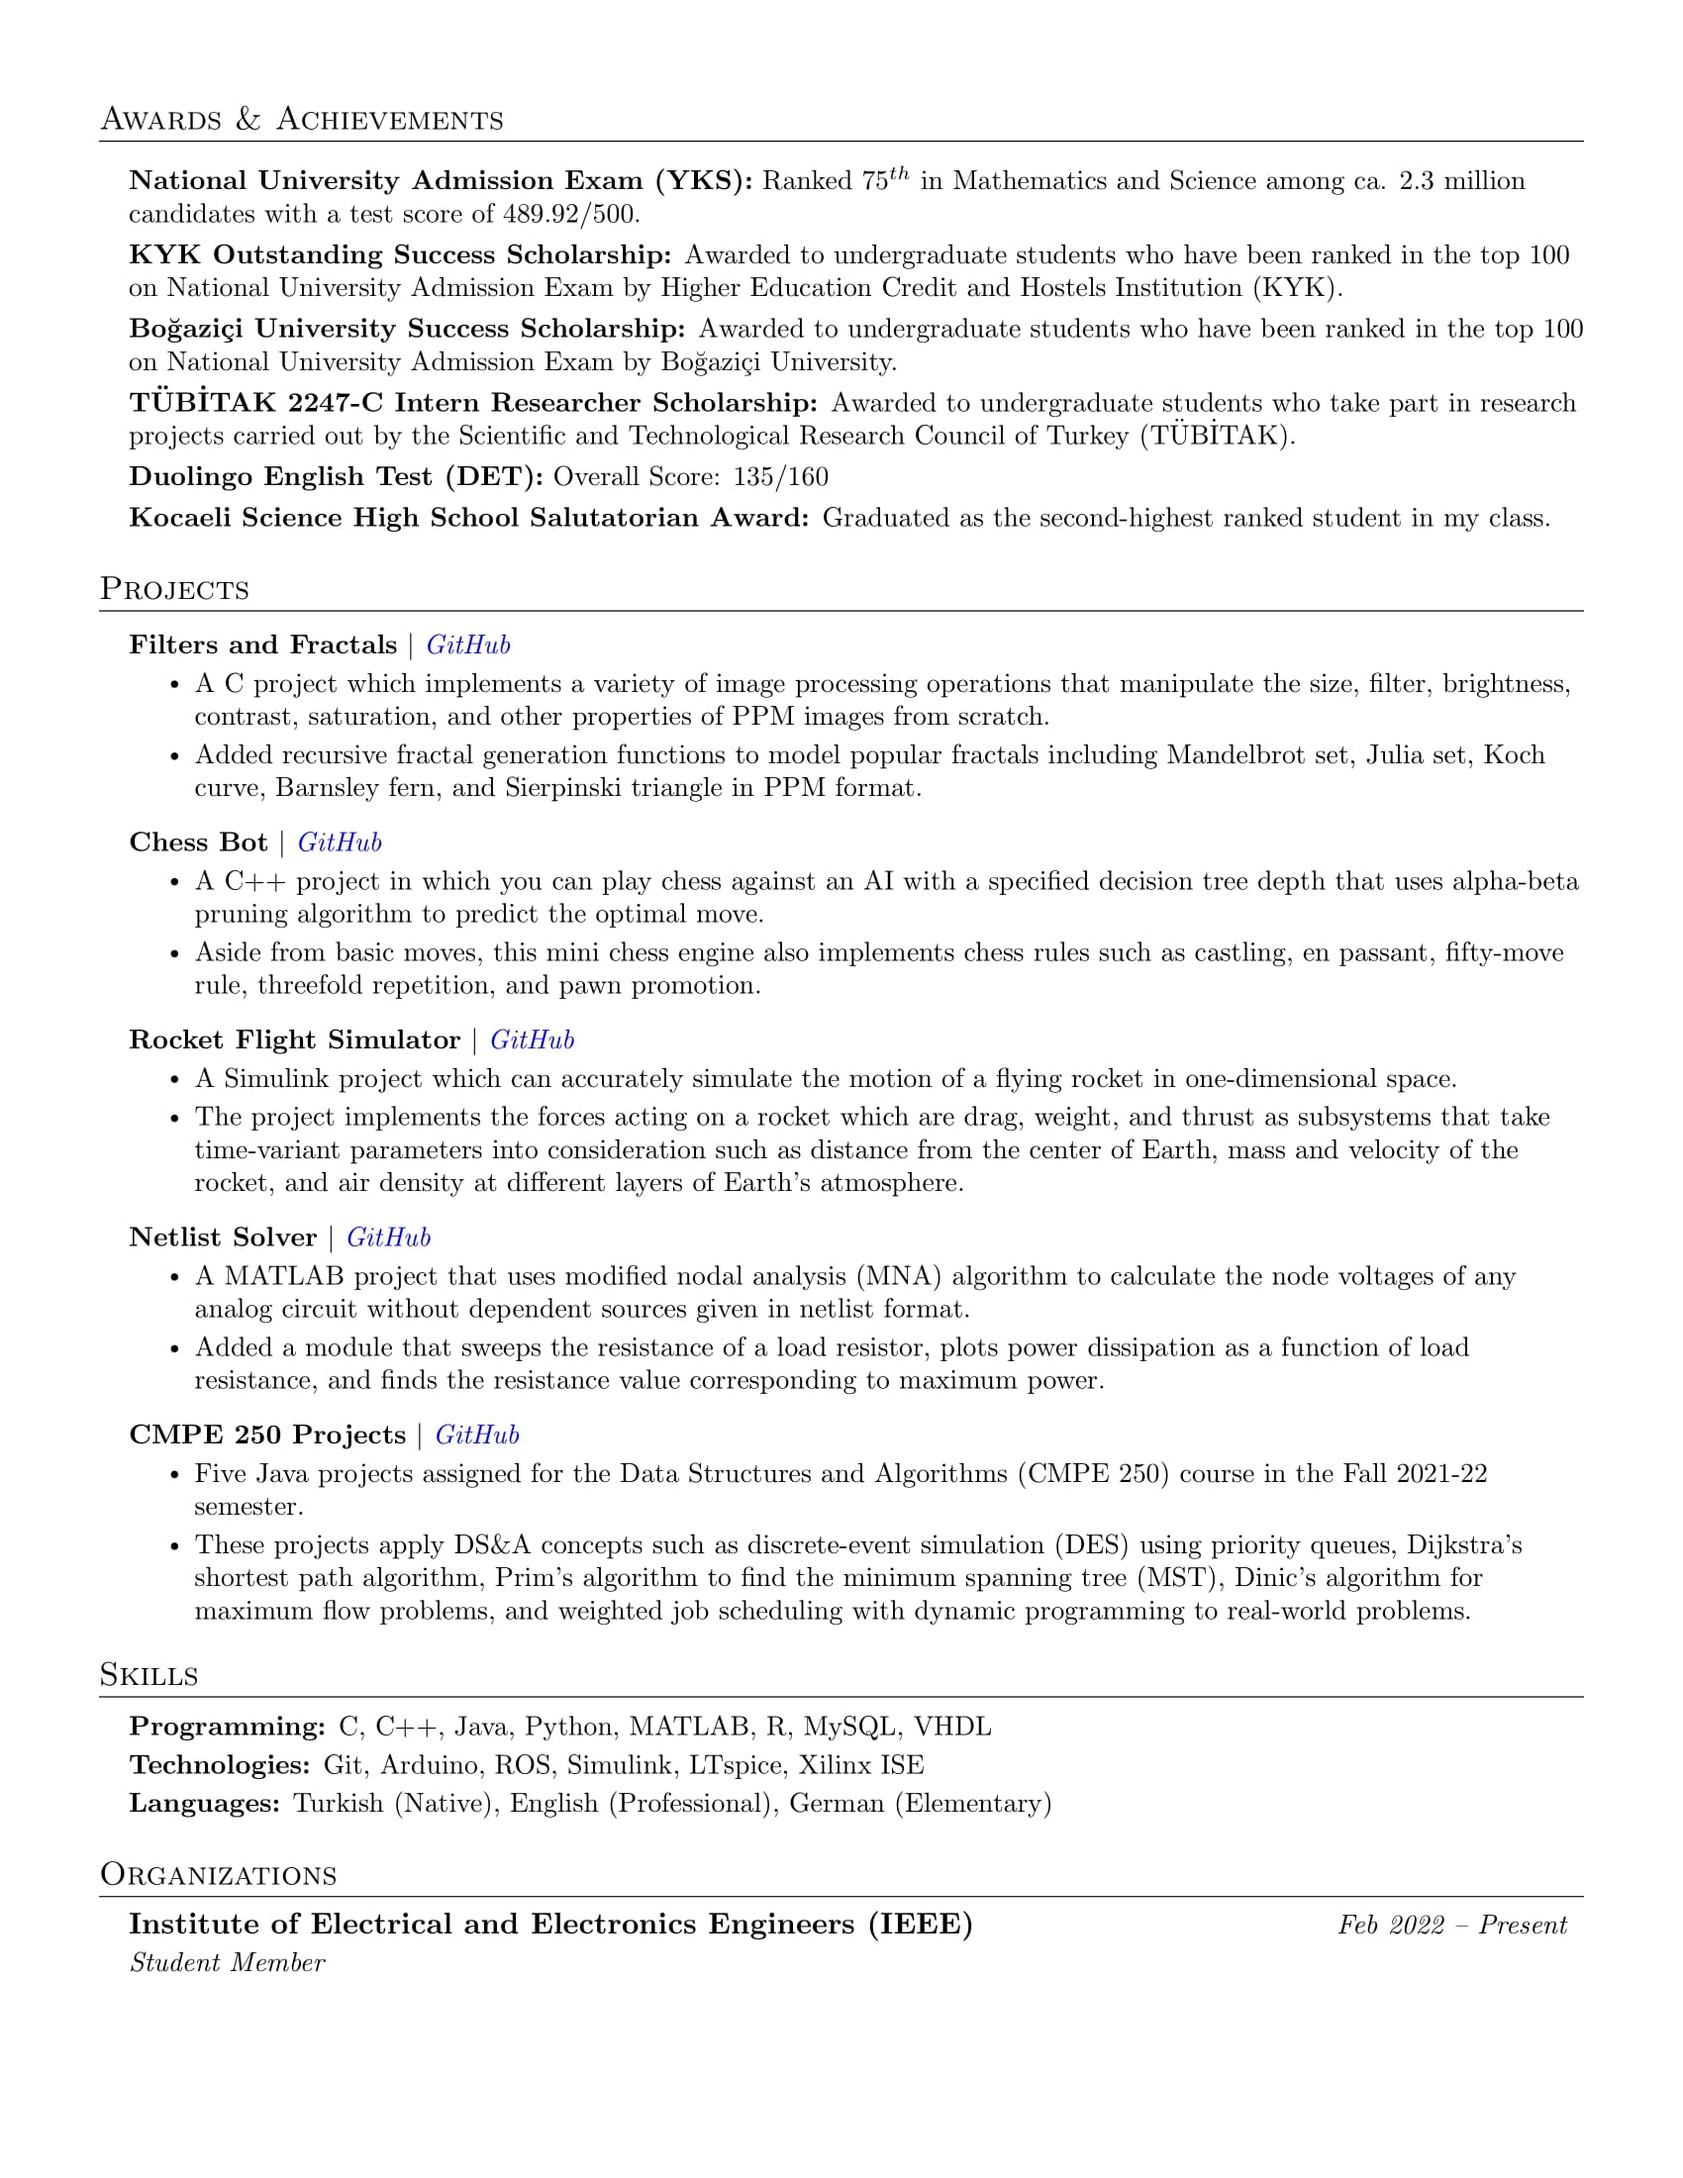
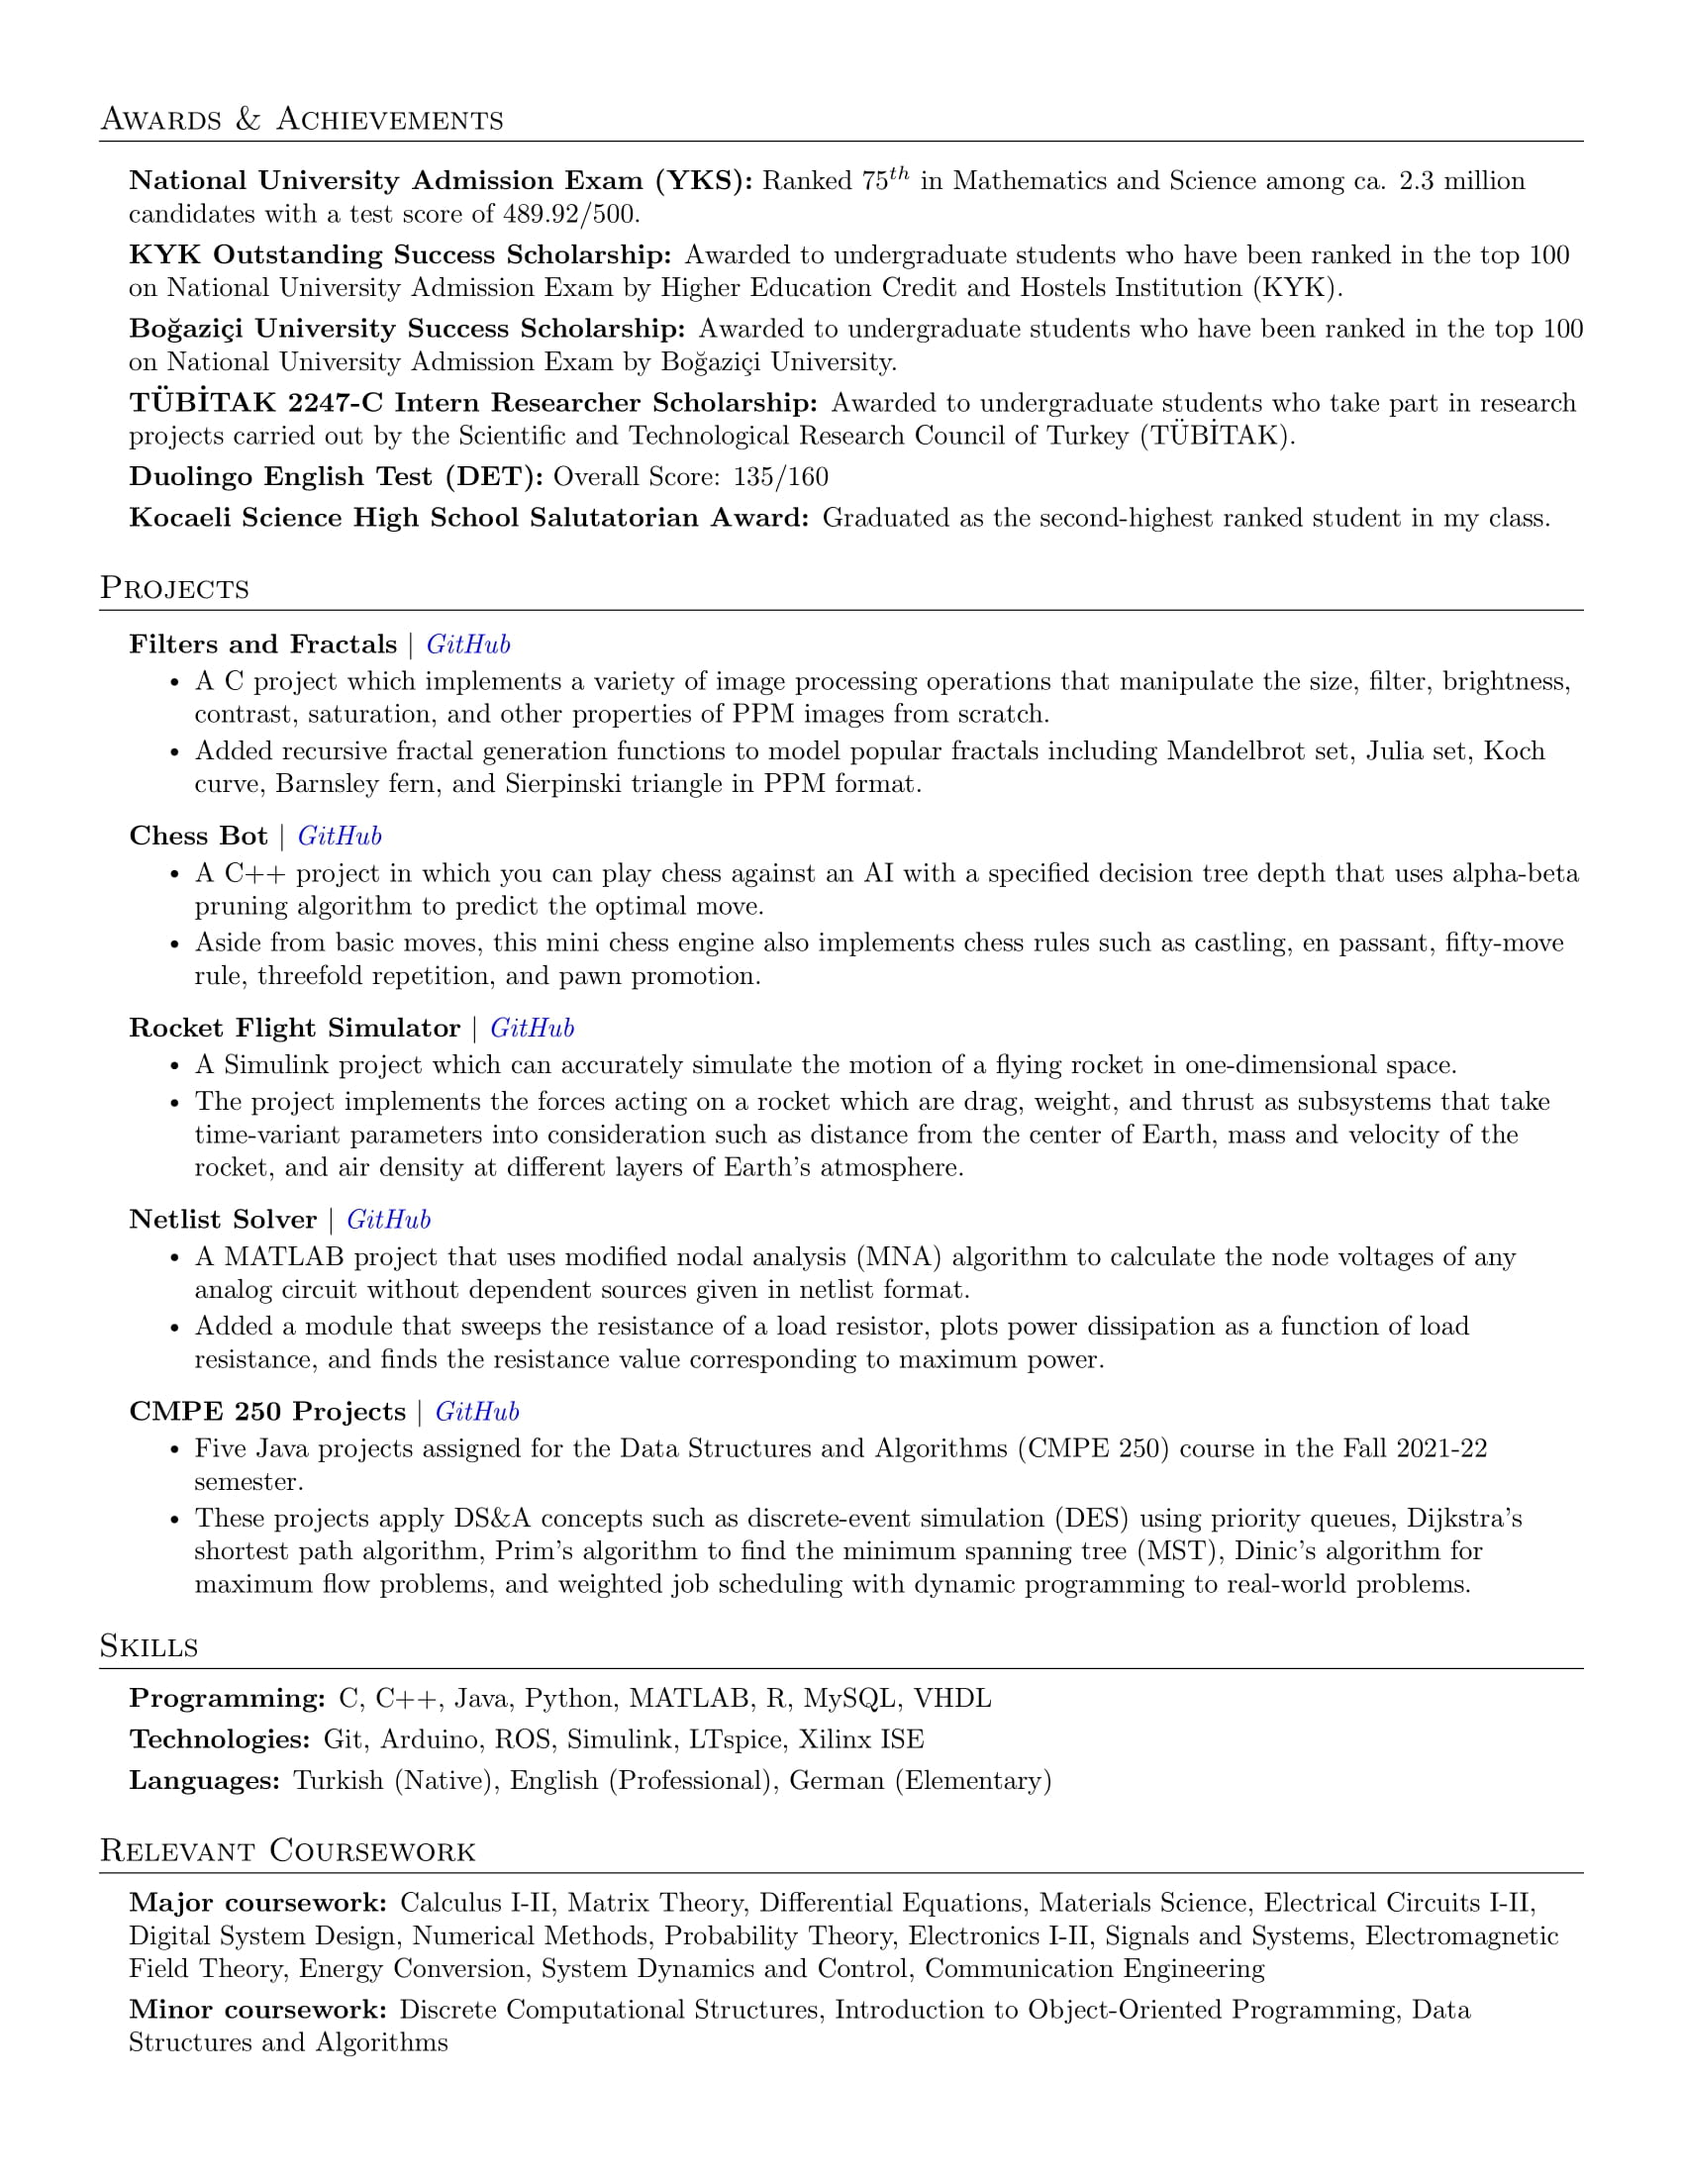
Added relevant coursework

Changed region(s): [[0.0624, 0.2782, 0.9353, 0.9582]]

diff --git a/main.tex b/main.tex
@@ -162,7 +162,7 @@
       {B.Sc. in Electrical and Electronics Engineering;   \textbf{GPA: 3.73/4.00}}{Sep 2018 \textbf{--} Jun 2023 (Expected)}
       {Minor Degree in Computer Engineering;   \textbf{GPA: 3.86/4.00}}{Oct 2020 \textbf{--} Jun 2023 (Expected)}
         % \resumeItemListStart
-            % \resumeItem{\textbf{Relevant coursework:} Calculus I-II, Matrix Theory, Differential Equations, Electrical Circuits I-II, Digital System Design, Numerical Methods, Probability, Electronics, Signals and Systems, Electromagnetic Field Theory}
+            % \resumeItem{\textbf{Relevant coursework:} Calculus I-II, Matrix Theory, Differential Equations, Materials Science, Electrical Circuits I-II, Digital System Design, Numerical Methods, Probability Theory, Electronics I-II, Signals and Systems, Electromagnetic Field Theory, Energy Conversion, System Dynamics and Control, Communication Engineering}
         % \resumeItemListEnd
     
     \resumeSubheading
@@ -316,9 +316,9 @@
   \vspace{1pt}
   \resumeSubHeadingListStart
     \small{\item{
-        \textbf{Programming:}{ C, C++, Java, Python, MATLAB, R, MySQL, VHDL} \\ \vspace{2pt}
+        \textbf{Programming:}{ C, C++, Java, Python, MATLAB, R, MySQL, VHDL} \\ \vspace{3pt}
         
-        \textbf{Technologies:}{ Git, Arduino, ROS, Simulink, LTspice, Xilinx ISE} \\ \vspace{2pt}
+        \textbf{Technologies:}{ Git, Arduino, ROS, Simulink, LTspice, Xilinx ISE} \\ \vspace{3pt}
         
         \textbf{Languages:}{ Turkish (Native), English (Professional), German (Elementary)}
         
@@ -326,6 +326,20 @@
         % \textbf{Developer Tools}{: X, X, X} \\
         % \textbf{Libraries}{: X, X, X} \\
         % \textbf{Applications}{: X, X, X}
+    }}
+  \resumeSubHeadingListEnd
+
+
+
+%----------- RELEVANT COURSEWORK -----------
+
+\section{Relevant Coursework}
+  \vspace{1pt}
+  \resumeSubHeadingListStart
+    \small{\item{
+        \textbf{Major coursework:}{ Calculus I-II, Matrix Theory, Differential Equations, Materials Science, Electrical Circuits I-II, Digital System Design, Numerical Methods, Probability Theory, Electronics I-II, Signals and Systems, Electromagnetic Field Theory, Energy Conversion, System Dynamics and Control, Communication Engineering} \\ \vspace{3pt}
+        
+        \textbf{Minor coursework:}{ Discrete Computational Structures, Introduction to Object-Oriented Programming, Data Structures and Algorithms}
     }}
   \resumeSubHeadingListEnd
 
@@ -345,13 +359,13 @@
 
 %----------- ORGANIZATIONS -----------
 
-\section{Organizations}
-  \resumeSubHeadingListStart
+% \section{Organizations}
+  % \resumeSubHeadingListStart
     
-    \resumeOrganizationHeading
-      {Institute of Electrical and Electronics Engineers (IEEE)}{Feb 2022 -- Present}{Student Member}
+    % \resumeOrganizationHeading
+      % {Institute of Electrical and Electronics Engineers (IEEE)}{Feb 2022 -- Present}{Student Member}
     
-  \resumeSubHeadingListEnd
+  % \resumeSubHeadingListEnd
 
 
 
